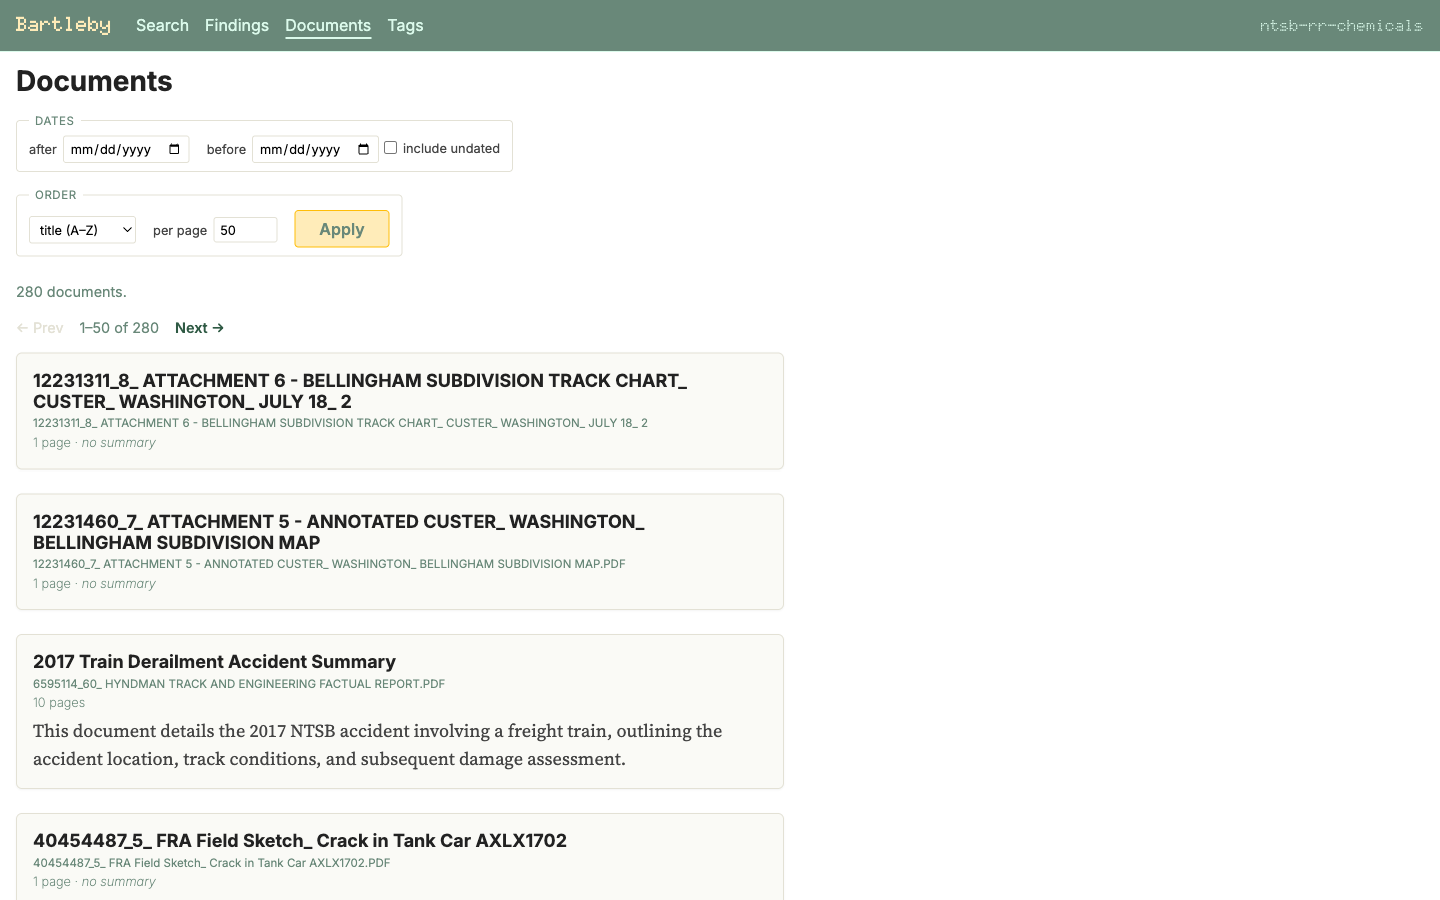
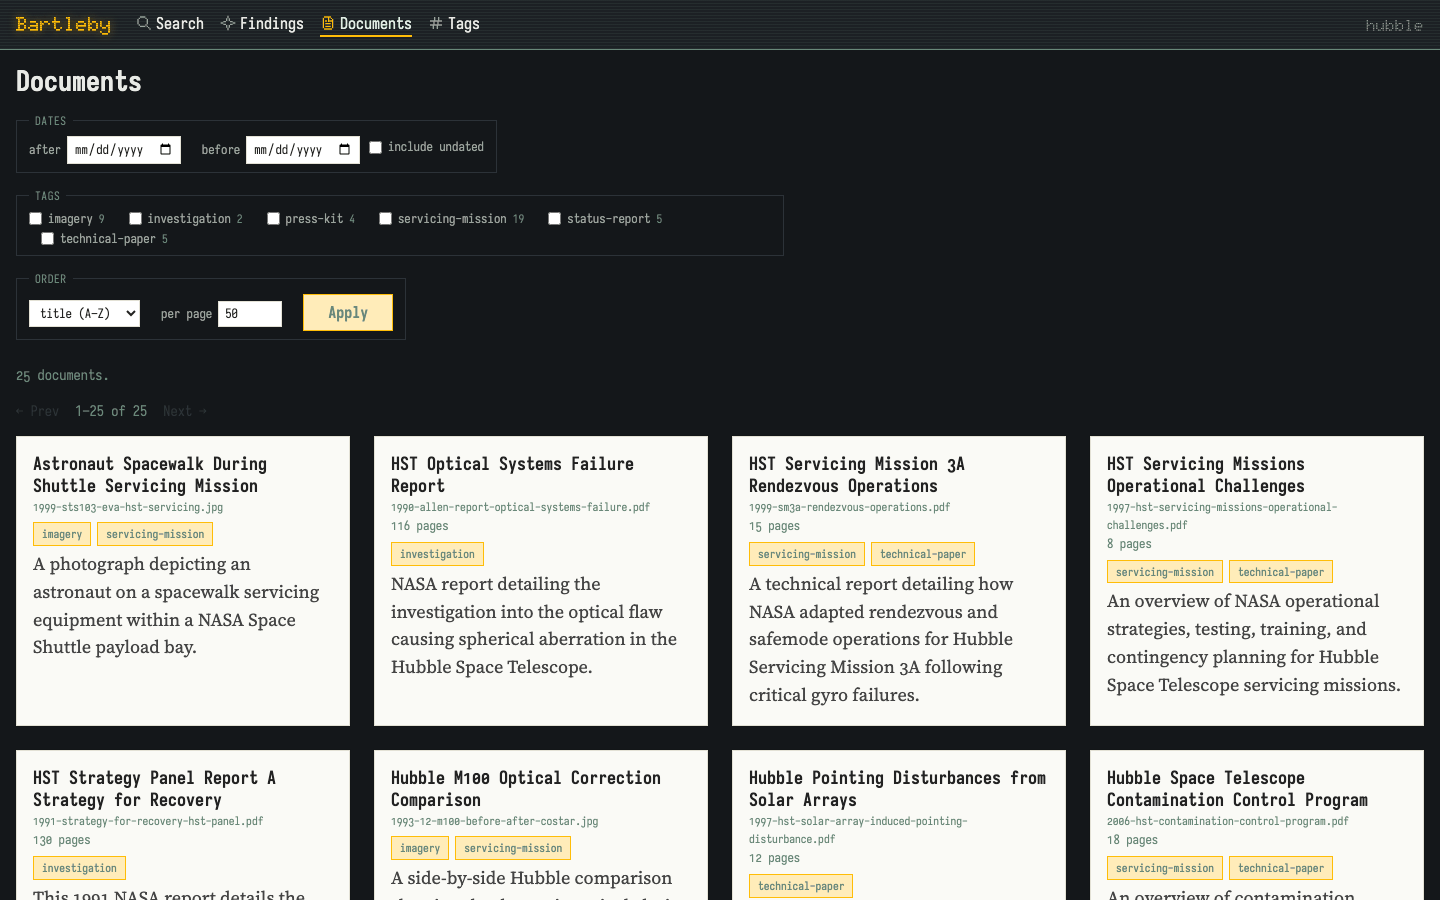
docs: refresh serve screenshots from the Hubble demo project; add /tags and /chunks
Re-captures /, /search, /findings/<id>, /documents and adds /tags and
/chunks/<id>, all from a throwaway Hubble demo project (NASA public
domain). PNGs quantized to 256 colors (~60% smaller). Alt text rewritten
to describe what's on screen.

Part of #717

diff --git a/README.md b/README.md
@@ -394,13 +394,19 @@ Five top-level views (plus a per-chunk view reached from citations and search hi
 - `/tags` — the controlled tag vocabulary: every tag with its description and document count. Click a tag to see the documents carrying it.
 - `/chunks/<id>` — a single chunk in context: the chunk itself at full contrast, its two neighbors on each side (same source, by chunk index) muted as surrounding context, and a link back to the source document (or finding). Reached from the icon beside any chunk reference in findings and search results.
 
-![Corpus overview (`/`): document, chunk, and token totals, the authored-date range, a documents-by-year histogram, summary coverage, content mix, and the largest documents for the active project.](./docs/serve-overview.png)
+Screenshots below are from a demo project built from NASA public-domain Hubble documents and imagery (1990–2009).
 
-![Search (`/search`): fused full-text + semantic results across documents, findings, and images, with source-kind / tag / scope filters and markdown-aware snippets.](./docs/serve-search.png)
+![Corpus overview (`/`) for the Hubble demo project: 3 findings and 25 documents, chunk and token totals, the authored-date range, documents by year, content mix, tags, and the largest documents.](./docs/serve-overview.png)
 
-![Findings (`/findings`): the saved finding's body on the left with inline citation chips, the source PDF on the right at the cited page.](./docs/serve-findings.png)
+![Search (`/search`) for "astronaut spacewalk servicing the telescope": fused full-text + semantic hits led by two image descriptions, with source-kind, tag, and scope filters.](./docs/serve-search.png)
 
-![Documents (`/documents`): the ingested corpus with authored-date and tag filters, sorting, and paging — each row showing its file name, page count, and one-shot summary.](./docs/serve-documents.png)
+![A finding (`/findings/<id>`): "Why Hubble's mirror was flawed — and missed", with inline citations and margin source notes on the left and the cited Allen Report PDF open at page 4 on the right.](./docs/serve-findings.png)
+
+![Documents (`/documents`): the Hubble corpus of PDFs, text files, and images as cards with file name, page count, tags, and one-shot summary, plus date, tag, and sort filters.](./docs/serve-documents.png)
+
+![Tags (`/tags`): the controlled vocabulary — servicing-mission, investigation, press-kit, status-report, imagery, technical-paper — each with its description and document count.](./docs/serve-tags.png)
+
+![A chunk in context (`/chunks/<id>`): a cited Allen Report passage at full contrast between its two muted neighbors on each side, with a link back to the source document.](./docs/serve-chunk.png)
 
 Requires Node.js and npm on `PATH`; the first invocation runs `npm install` once into `~/.bartleby/serve/`.
 
